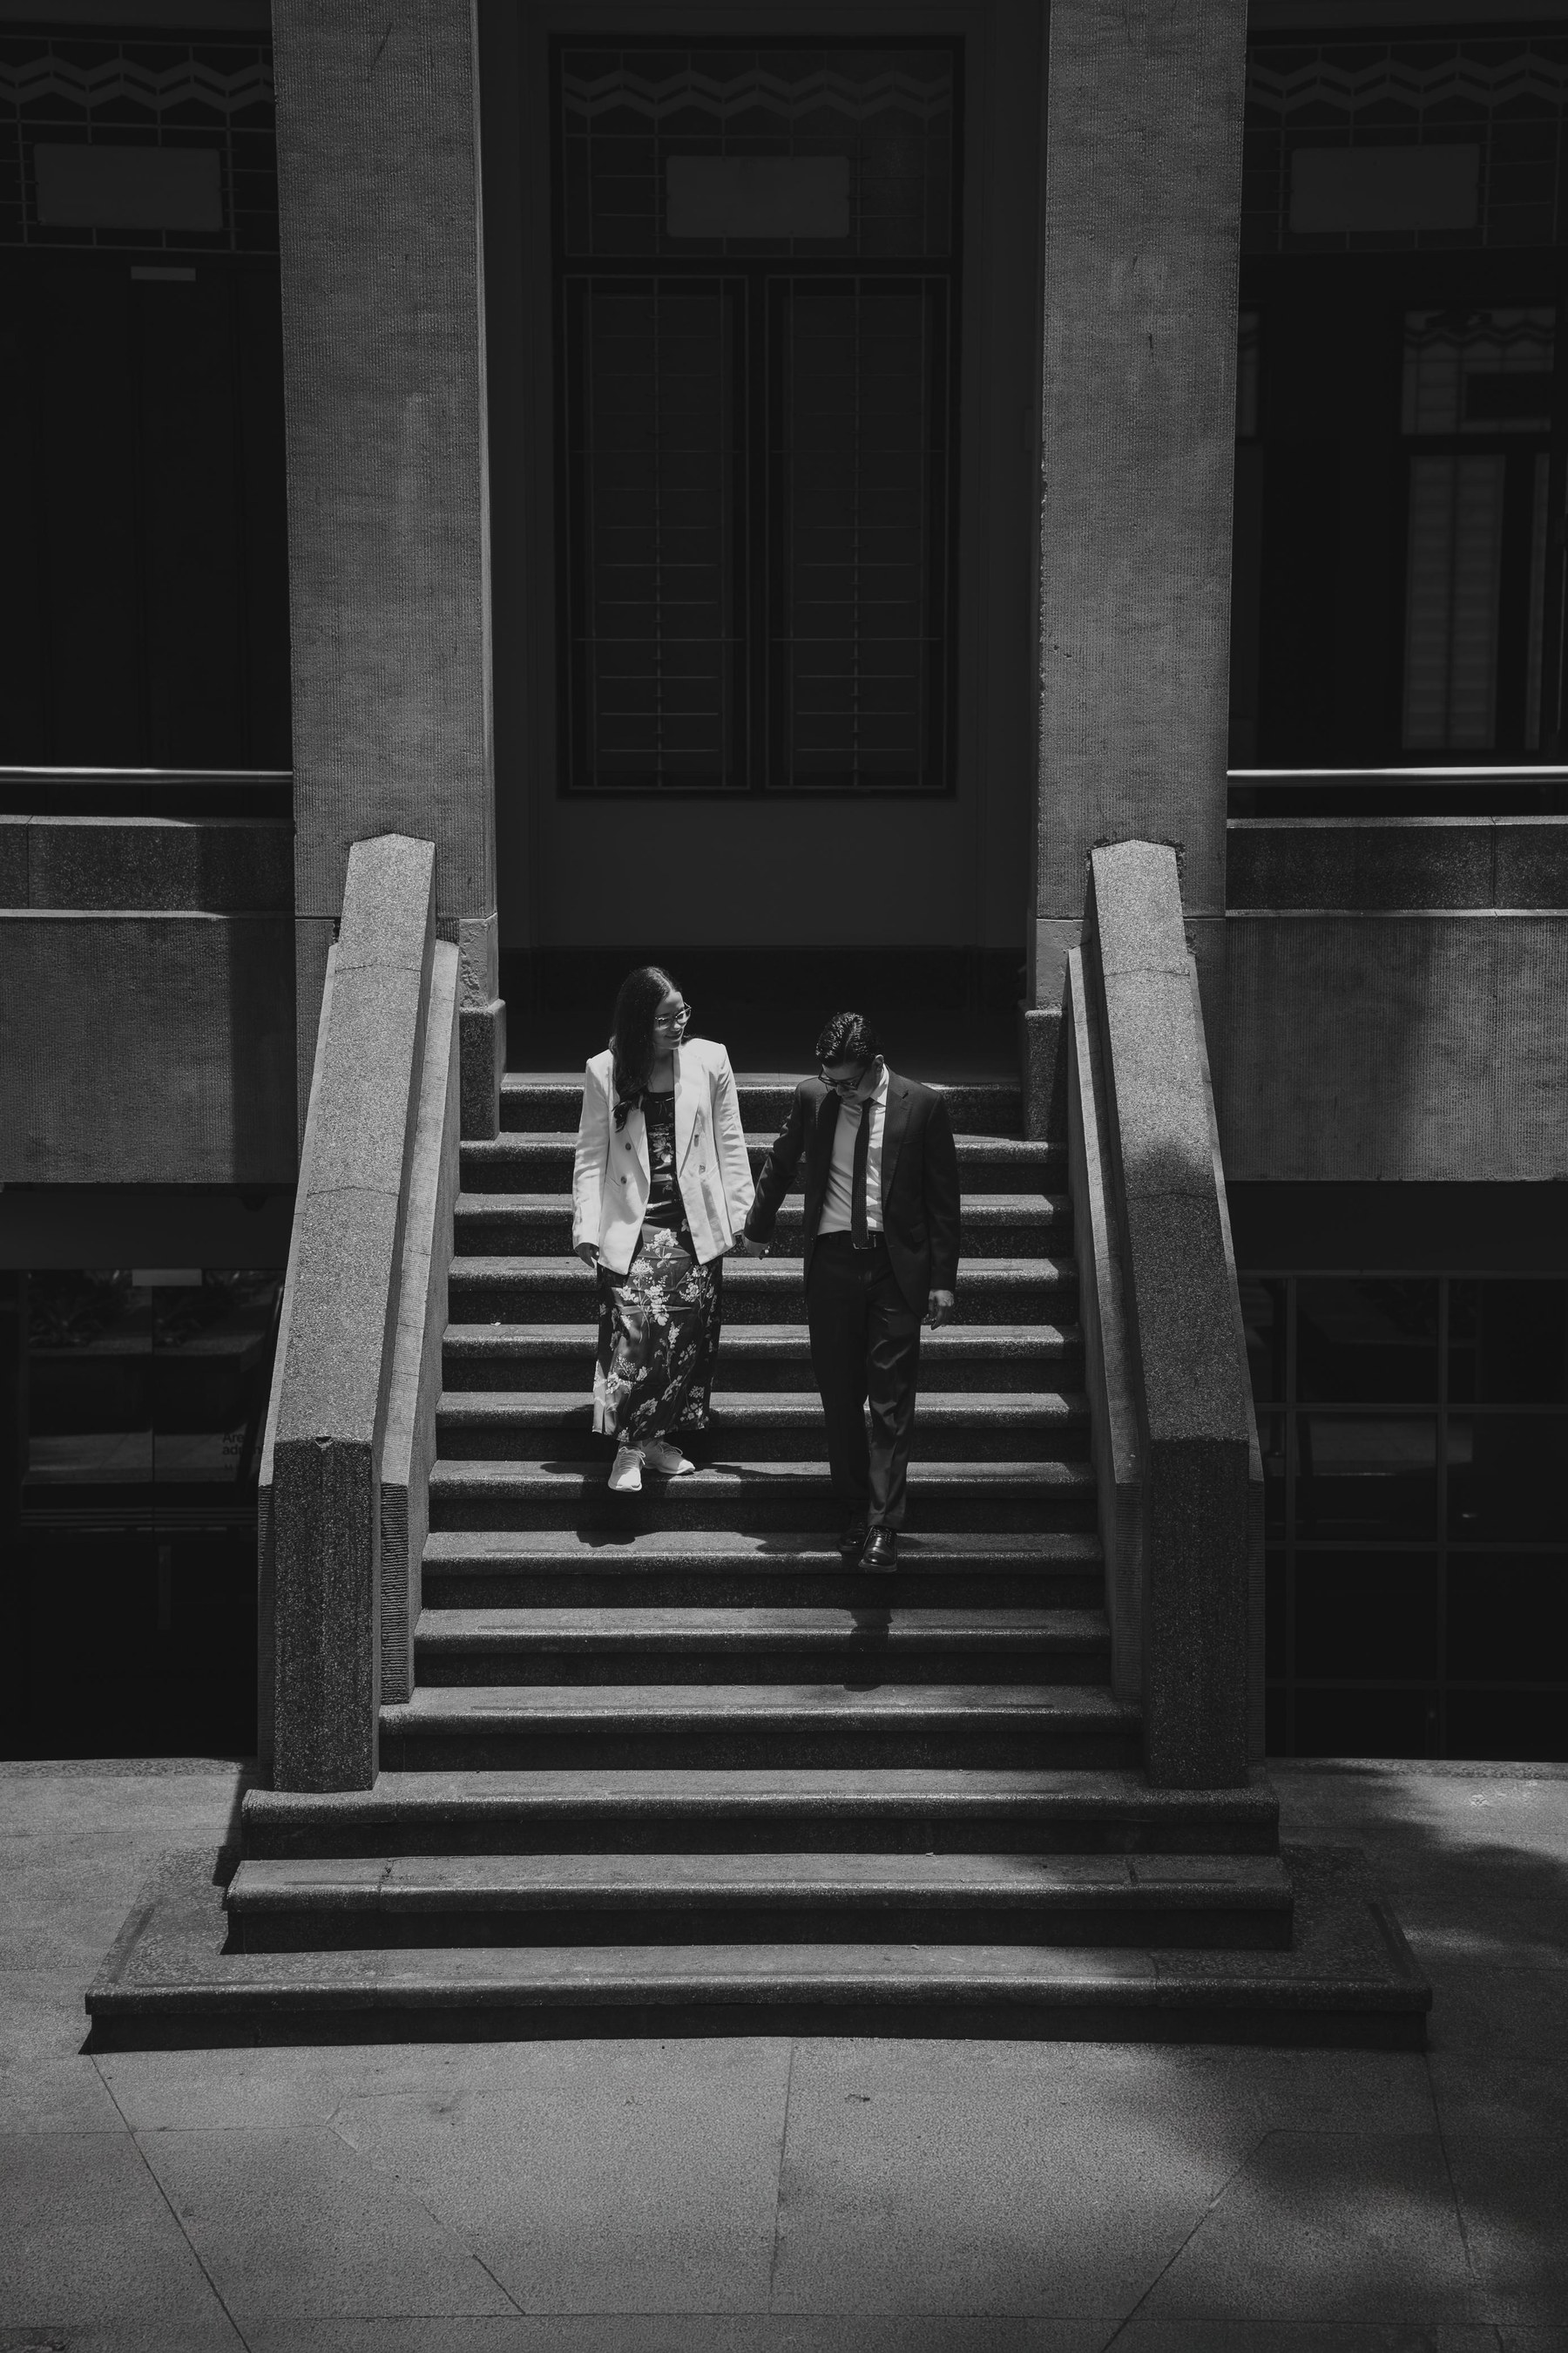
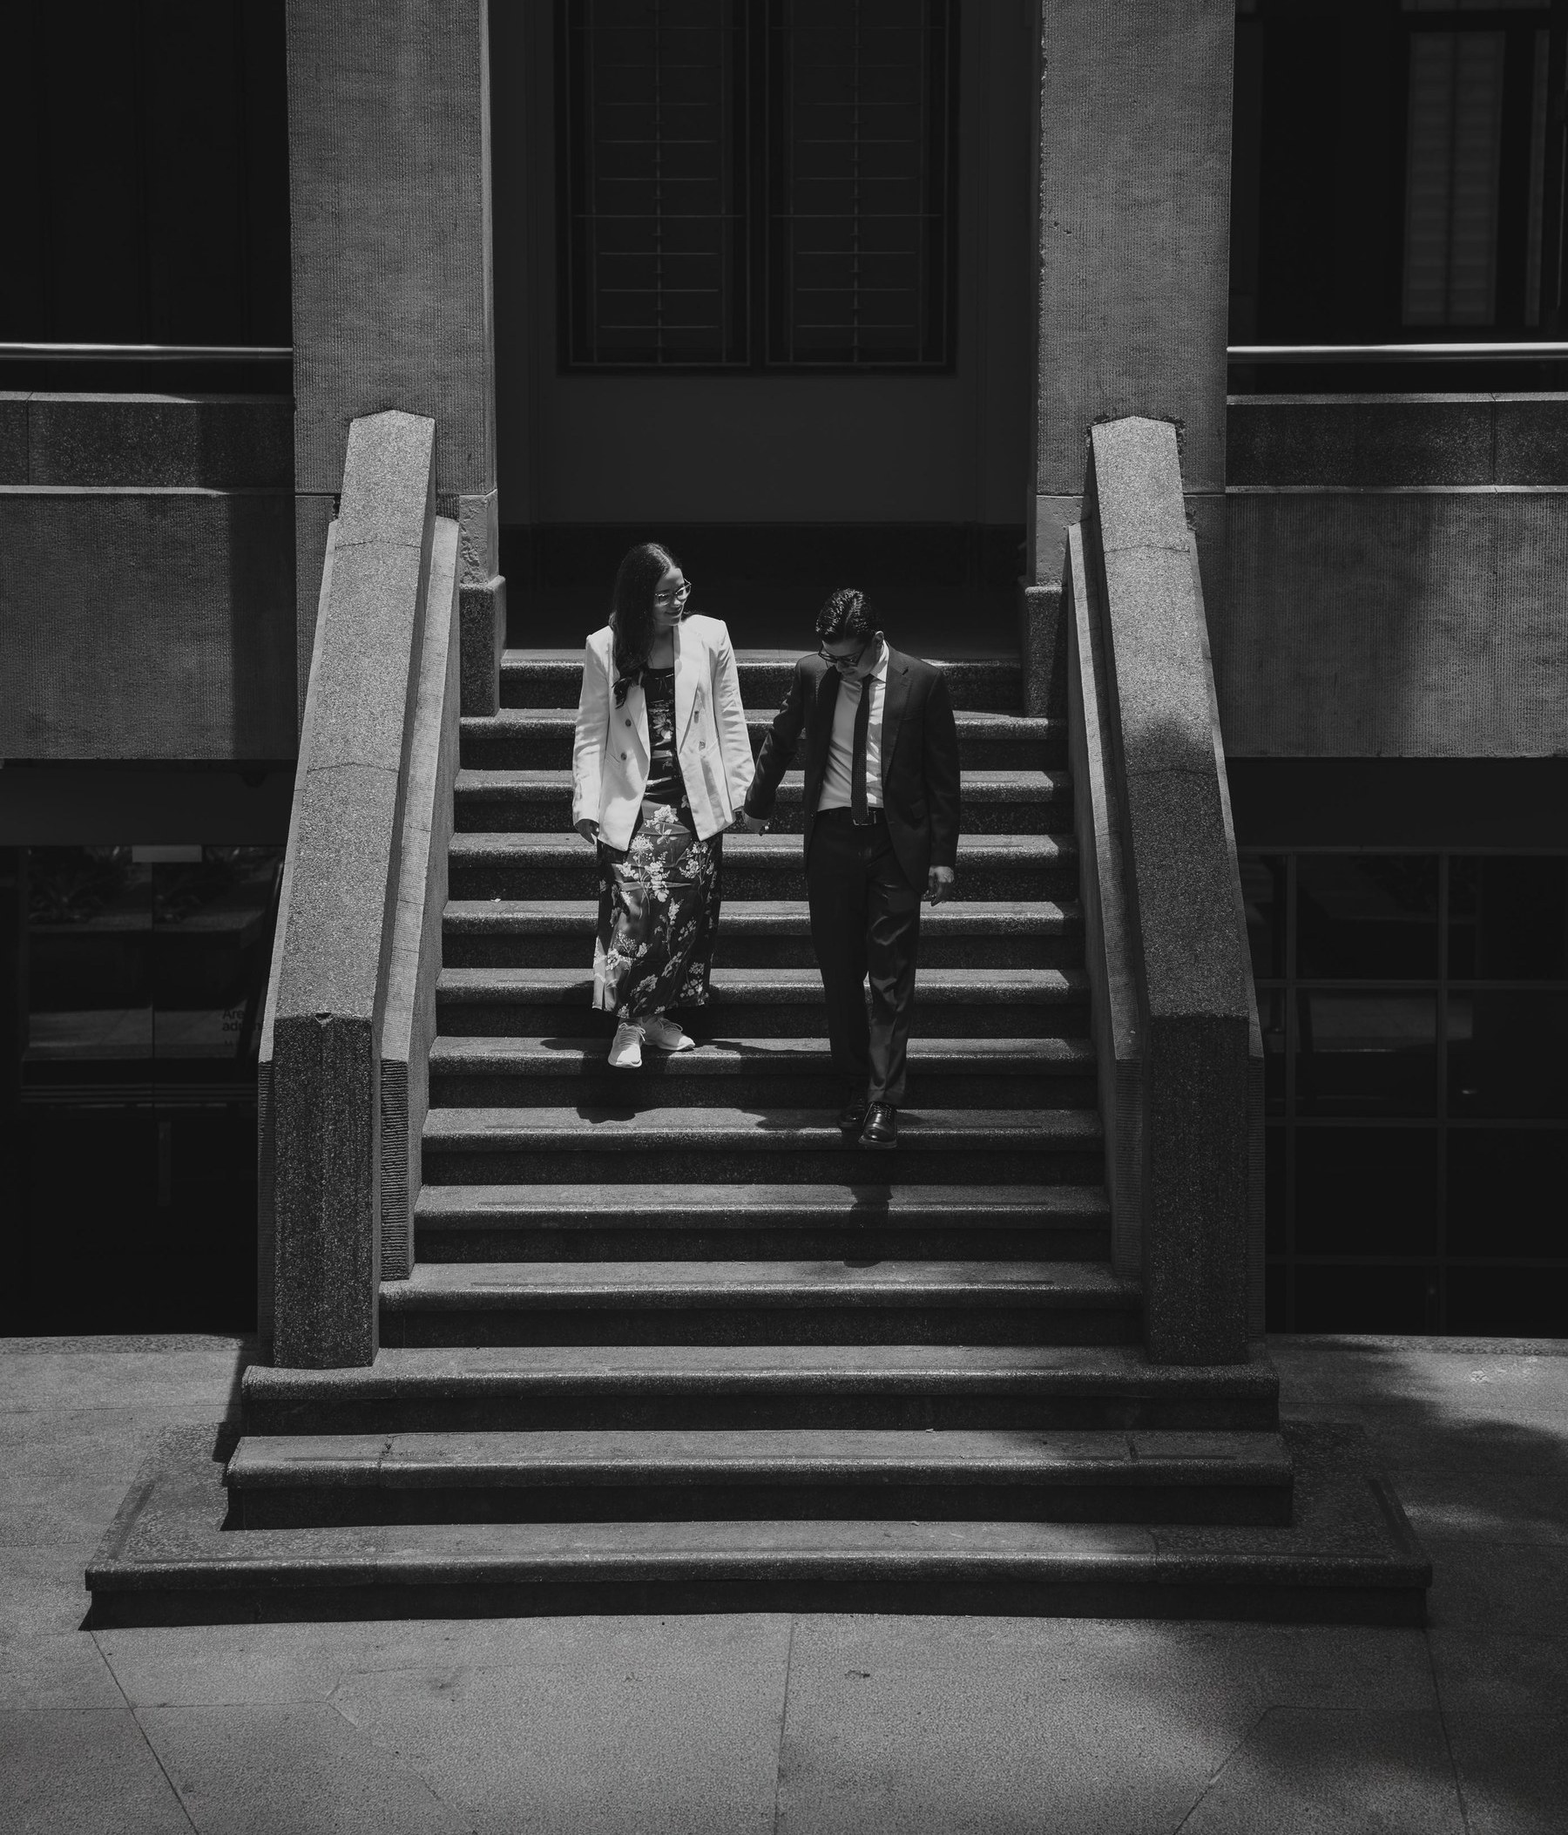
Bajar encuadre de escaleras para mostrar los pies

diff --git a/src/app/page.tsx b/src/app/page.tsx
@@ -105,7 +105,7 @@ export default function Home() {
           alt="Daniel y Manuela"
           fill
           unoptimized
-          className="object-cover object-[center_48%] sm:object-[center_45%]"
+          className="object-cover object-[center_62%] sm:object-[center_58%]"
           sizes="100vw"
         />
         <div className="absolute inset-0 bg-gradient-to-b from-night/50 via-night/55 to-night/70" />
